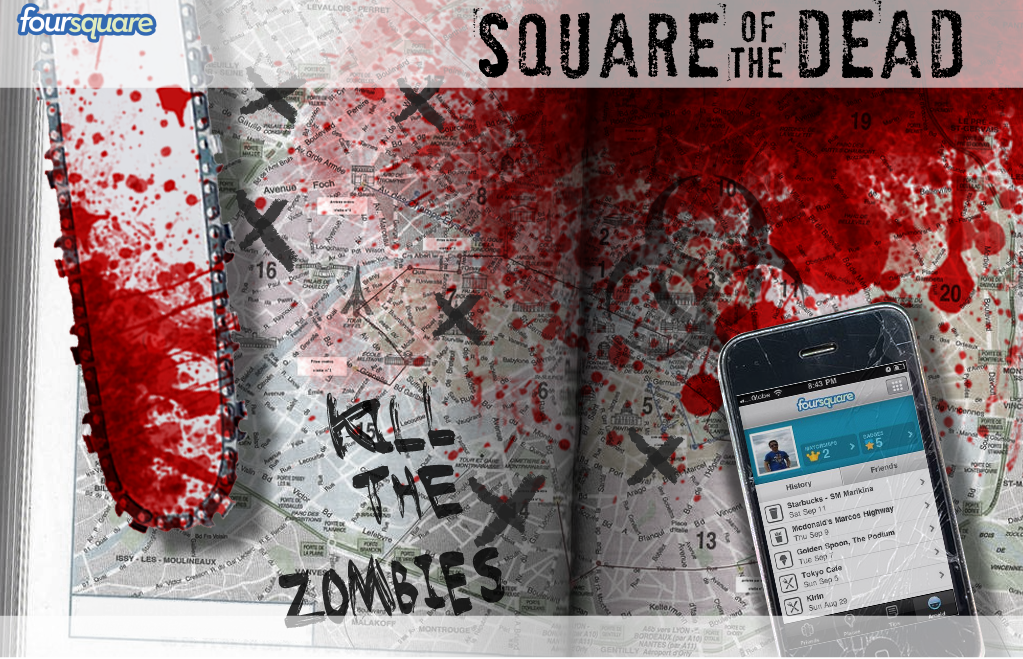
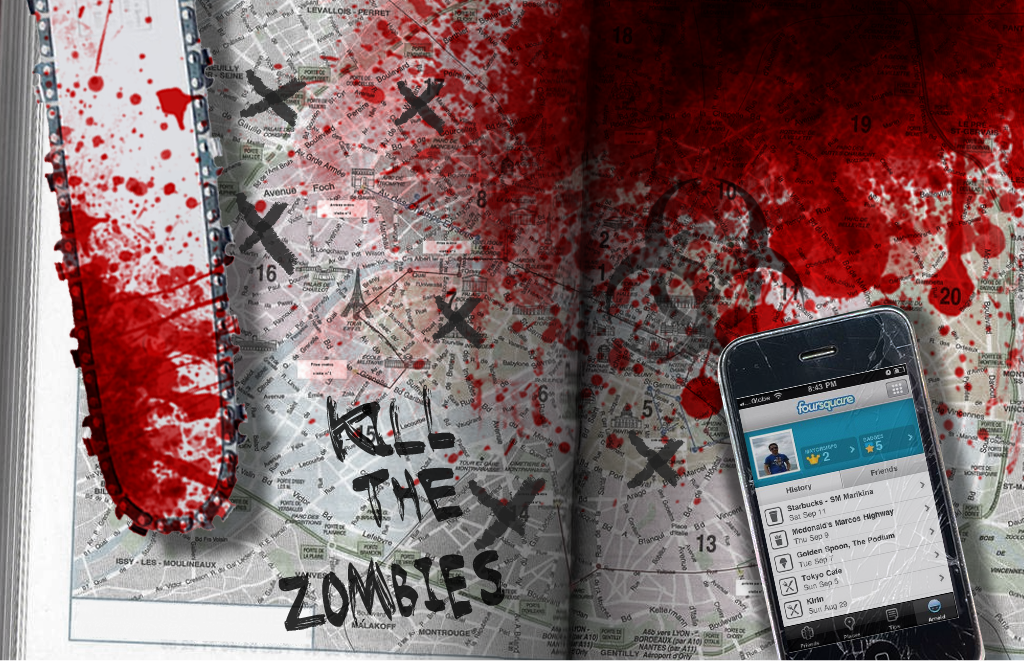
landing page ok

diff --git a/zombiesquare/public/stylesheets/index.css b/zombiesquare/public/stylesheets/index.css
@@ -1,0 +1,58 @@
+html, body {
+  margin: 0;
+  padding: 0;
+  position: relative;
+}
+body {
+	background: #D9DFD3;
+}
+img#bg {
+  position:fixed;
+  top:0;
+  left:0;
+  width:100%;
+  z-index:1;
+}
+.container {
+  text-align: right;
+  z-index: 3;
+  display: block;
+  position:relative;
+  width: 960px;
+  margin-right:auto;
+  margin-left: auto;
+}
+
+#bandeau  {
+	z-index:2;
+	position:fixed;
+	top:0;
+	left:0;
+	width: 100%;
+	height: 120px;
+	background: black;
+	opacity: 0.6;
+	filter:alpha(opacity=60);	
+}
+
+#title {
+	margin-top: 10px;
+	margin-right: 10px;	
+}
+
+#fqConnect {
+}
+
+#connect {
+	margin-top: 45px;
+	margin-right: 100px;
+	width : 270px;
+	height: 36px;	
+}
+
+#baseLine {
+	color: white;
+	font-size: 22px;
+	margin-top: 50px;
+	margin-right: 12px;
+}

diff --git a/zombiesquare/app/views/Application/index.html b/zombiesquare/app/views/Application/index.html
@@ -1,4 +1,17 @@
 #{extends 'main.html' /}
 #{set title:'Home' /}
+#{set moreStyles:'/public/stylesheets/index.css' /}
 
-<a href="${fourSquareConnectUrl}">Four Square Connect</a>
+<img src="/public/images/home.png" id="bg"/>
+
+<div id="bandeau"></div>
+
+<div class="container" id="containerTitle">
+	<img src="/public/images/title_home.png" id="title"/>
+</div>
+<div class="container" id="containerBaseLine">
+<h1 id="baseLine">RESIST A ZOMBIE INVASION OF YOUR CITY</h1>
+</div>
+<div class="container" id="containerConnect">
+	<a href="${fourSquareConnectUrl}" id="fqConnect"><img src="/public/images/connect.png" id="connect"/></a>
+</div>

diff --git a/zombiesquare/app/views/main.html b/zombiesquare/app/views/main.html
@@ -5,7 +5,7 @@
         <title>#{get 'title' /}</title>
         <meta charset="${_response_encoding}">
         <link rel="stylesheet" media="screen" href="@{'/public/stylesheets/main.css'}">
-        #{get 'moreStyles' /}
+        <link rel="stylesheet" href="#{get 'moreStyles' /}">
         <link rel="shortcut icon" type="image/png" href="@{'/public/images/favicon.png'}">
         <script src="@{'/public/javascripts/jquery-1.5.2.min.js'}" type="text/javascript" charset="${_response_encoding}"></script>
         #{get 'moreScripts' /}
